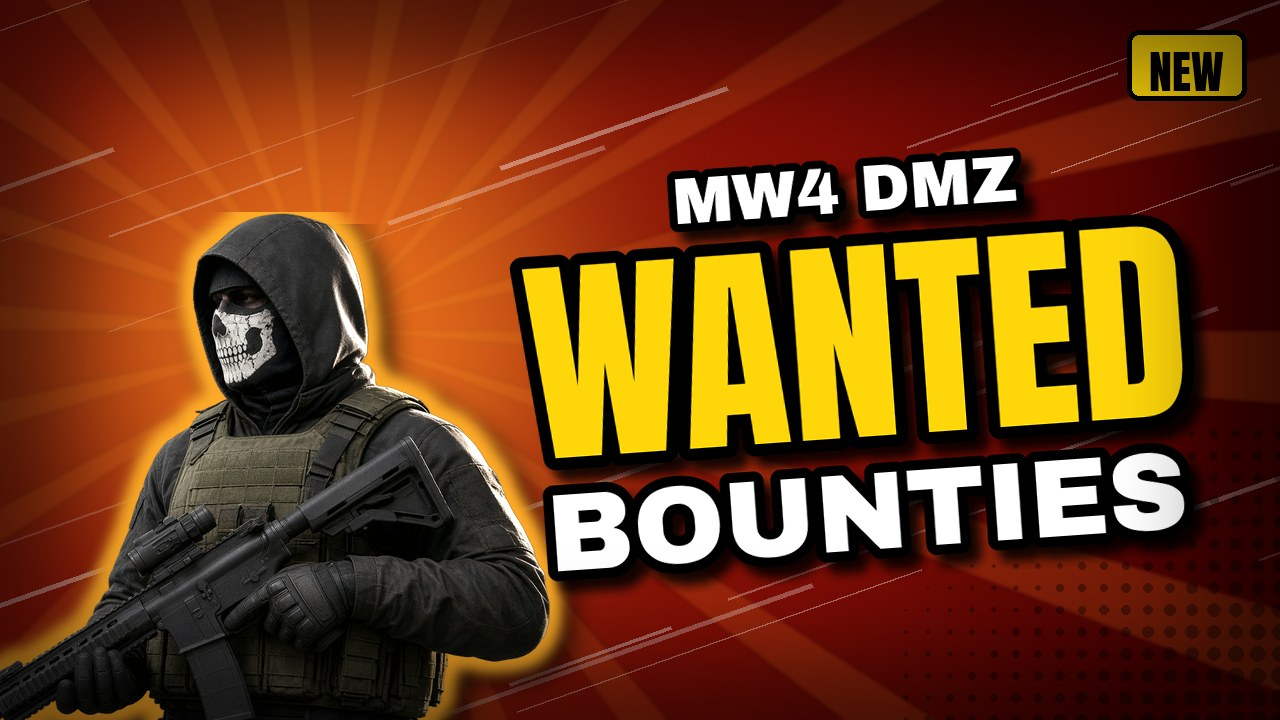
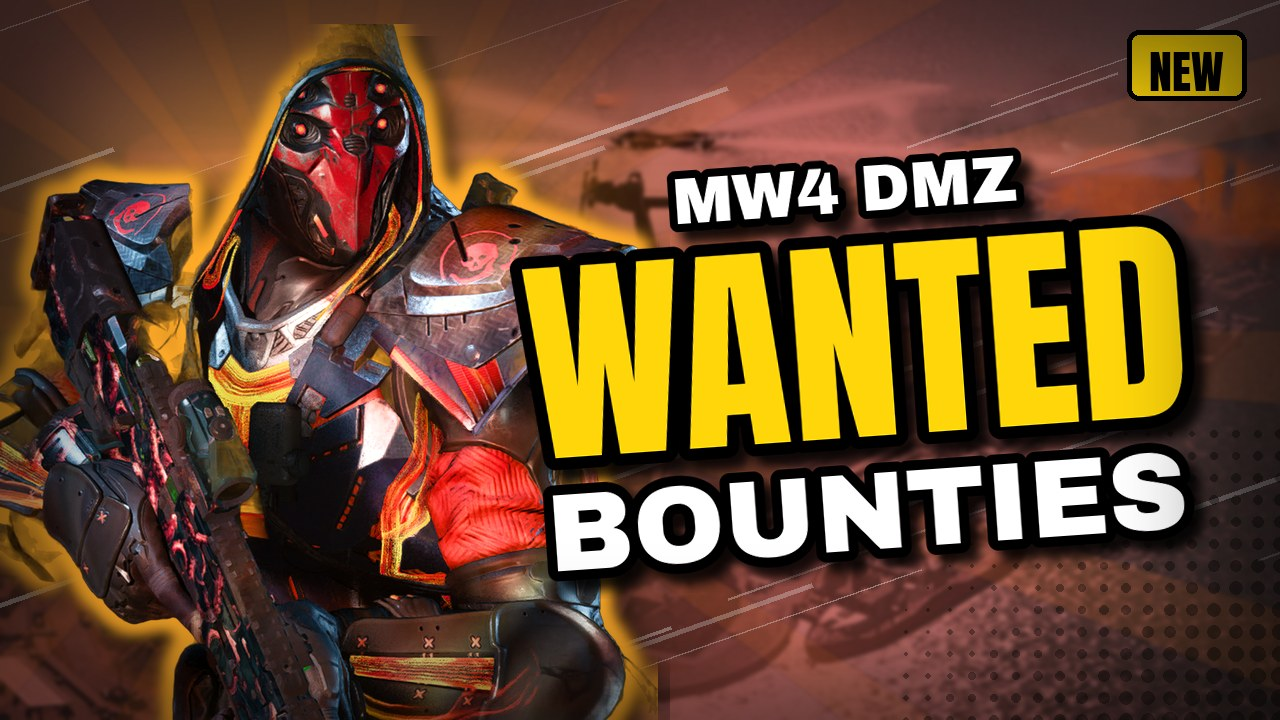
MW4/Warzone thumbnails: Rick's clean screenshots + operator cut-outs, rotation log

diff --git a/scripts/clean_mw4.py b/scripts/clean_mw4.py
@@ -1,0 +1,64 @@
+#!/usr/bin/env python3
+"""Clean Rick's MW4/Warzone screenshots (2560x1440) for thumbnails.
+Per shot: inpaint leftover HUD bits (full-res rects; 'sat' rects only mask coloured/bright text pixels),
+crop 16:9 away from all menus/HUD, save 1600x900 JPG q85 to media/screenshots/mw4-warzone/clean/mw4-NN.jpg.
+Raw PNGs (rick-mw4-NN.png) are gitignored. Usage: python3 scripts/clean_mw4.py"""
+import os, cv2, numpy as np
+ROOT = os.path.dirname(os.path.dirname(os.path.abspath(__file__)))
+D = os.path.join(ROOT, 'media/screenshots/mw4-warzone')
+LOBBY_FIX = [(690, 930, 800, 1075), (1785, 280, 1832, 335)]  # + party speaker icon          # tiny build/debug text left of the operator in lobby shots
+# out#: (raw#, (x0, y0, width), inpaint rects, sat-masked rects)
+SHOTS = {
+    1:  (2,  (740, 185, 1090), LOBBY_FIX, []),
+    2:  (4,  (740, 185, 1090), LOBBY_FIX, []),
+    3:  (5,  (740, 185, 1090), LOBBY_FIX, []),
+    4:  (7,  (740, 185, 1090), LOBBY_FIX, []),
+    5:  (9,  (740, 185, 1090), LOBBY_FIX, []),
+    6:  (11, (740, 185, 1090), LOBBY_FIX, []),
+    7:  (12, (740, 185, 1090), LOBBY_FIX, []),
+    8:  (13, (740, 185, 1090), LOBBY_FIX, []),
+    9:  (14, (740, 185, 1090), LOBBY_FIX, []),
+    10: (18, (740, 185, 1090), LOBBY_FIX, []),
+    11: (1,  (420, 0, 2133), [], []),
+    12: (15, (470, 215, 1380), [(1195, 210, 1355, 350)], []),
+    13: (16, (440, 330, 1600), [], []),
+    14: (19, (440, 330, 1600), [], []),
+    15: (21, (400, 170, 1760), [(1225, 488, 1330, 522)], []),
+    16: (20, (570, 325, 1387), [], [(890, 500, 1055, 565), (1020, 585, 1230, 630), (745, 635, 980, 715),
+                                    (1420, 685, 1605, 730), (1730, 565, 1895, 605), (1235, 395, 1380, 450),
+                                    (1600, 390, 1850, 425), (1520, 435, 1705, 475), (1730, 435, 1945, 505),
+                                    (1190, 640, 1385, 690)]),
+}
+# skipped raws: 03 (near-duplicate of 04), 06 (near-duplicate of 05), 08 (face sits under the top nav bar),
+# 10 (near-duplicate of 09), 17 (near-duplicate of 16), 22 (waypoint/revive/prompt overlays across the centre),
+# 23 (menu-covered, dark duplicate of 01)
+
+def rect_mask(mask, r):
+    cv2.rectangle(mask, (r[0], r[1]), (r[2], r[3]), 255, -1)
+
+def run(only=None):
+    os.makedirs(os.path.join(D, 'clean'), exist_ok=True)
+    for n, (raw, (x0, y0, cw), rects, sats) in SHOTS.items():
+        if only and n not in only: continue
+        src = os.path.join(D, f'rick-mw4-{raw:02d}.png')
+        if not os.path.exists(src): continue
+        im = cv2.imread(src); h, w = im.shape[:2]
+        mask = np.zeros((h, w), np.uint8)
+        for r in rects: rect_mask(mask, r)
+        if sats:
+            hsv = cv2.cvtColor(im, cv2.COLOR_BGR2HSV)
+            for x_0, y_0, x_1, y_1 in sats:
+                sub = hsv[y_0:y_1, x_0:x_1]
+                m = ((sub[..., 1] > 60) & (sub[..., 2] > 110)) | (sub[..., 2] > 200)
+                mask[y_0:y_1, x_0:x_1] |= (m.astype(np.uint8) * 255)
+        if mask.any():
+            mask = cv2.dilate(mask, np.ones((9, 9), np.uint8))
+            im = cv2.inpaint(im, mask, 11, cv2.INPAINT_TELEA)
+        ch = round(cw * 9 / 16)
+        crop = im[y0:y0 + ch, x0:x0 + cw]
+        crop = cv2.resize(crop, (1600, 900), interpolation=cv2.INTER_AREA if cw >= 1600 else cv2.INTER_LANCZOS4)
+        out = os.path.join(D, 'clean', f'mw4-{n:02d}.jpg')
+        cv2.imwrite(out, crop, [cv2.IMWRITE_JPEG_QUALITY, 85, cv2.IMWRITE_JPEG_OPTIMIZE, 1, cv2.IMWRITE_JPEG_PROGRESSIVE, 1])
+        print(out, f'(raw {raw:02d})', os.path.getsize(out) // 1024, 'KB')
+
+if __name__ == '__main__': run()

diff --git a/scripts/mw4_images.py b/scripts/mw4_images.py
@@ -1,0 +1,40 @@
+#!/usr/bin/env python3
+"""Rotation of Rick's MW4/Warzone thumbnail images (cut-outs + clean scenes), tracked in content/mw4-image-usage.json.
+  python3 scripts/mw4_images.py next            -> suggests the least-recently-used character + background pair
+                                                  (never the previous post's images, never a cut-out on its own source shot)
+  python3 scripts/mw4_images.py use <slug> <character.png> <bg.jpg>   -> records the pair (run after writing the post)
+  python3 scripts/mw4_images.py list            -> usage history"""
+import os, sys, json, glob
+ROOT = os.path.dirname(os.path.dirname(os.path.abspath(__file__)))
+LOG = os.path.join(ROOT, 'content/mw4-image-usage.json')
+CHARS = sorted(os.path.basename(p) for p in glob.glob(os.path.join(ROOT, 'media/characters/mw4-rick-*.png')))
+BGS = sorted(os.path.relpath(p, ROOT) for p in glob.glob(os.path.join(ROOT, 'media/screenshots/mw4-warzone/clean/mw4-*.jpg')))
+# cut-out -> the clean scene made from the same raw shot (don't pair them)
+SOURCE = {'mw4-rick-01.png': 'mw4-03.jpg', 'mw4-rick-02.png': 'mw4-04.jpg', 'mw4-rick-03.png': 'mw4-01.jpg',
+          'mw4-rick-04.png': 'mw4-07.jpg', 'mw4-rick-05.png': 'mw4-10.jpg', 'mw4-rick-06.png': 'mw4-05.jpg',
+          'mw4-rick-07.png': 'mw4-06.jpg', 'mw4-rick-08.png': 'mw4-09.jpg'}
+# in-match scenes (11-16) read best as full backgrounds behind a cut-out; lobby scenes (01-10) work as solo full-bleed bgs
+SCENES = [b for b in BGS if int(b[-6:-4]) >= 11]
+
+def load(): return json.load(open(LOG)) if os.path.exists(LOG) else []
+
+def lru(items, used):
+    last = {x: i for i, x in enumerate(used)}
+    return sorted(items, key=lambda x: last.get(x, -1))
+
+def main():
+    cmd = sys.argv[1] if len(sys.argv) > 1 else 'next'; log = load()
+    if cmd == 'use':
+        slug, ch, bg = sys.argv[2:5]
+        log = [e for e in log if e['slug'] != slug] + [{'slug': slug, 'character': ch, 'bg': bg}]
+        json.dump(log, open(LOG, 'w'), indent=1); print('recorded', slug)
+    elif cmd == 'list':
+        for e in log: print(e['slug'], e['character'], e['bg'])
+    else:
+        prev = log[-1] if log else {}
+        ch = next(c for c in lru(CHARS, [e['character'] for e in log]) if c != prev.get('character'))
+        bg = next(b for b in lru(SCENES, [e['bg'] for e in log])
+                  if b != prev.get('bg') and not b.endswith(SOURCE.get(ch, '-')))
+        print(f'character: {ch}\nbg: {bg}')
+
+if __name__ == '__main__': main()

diff --git a/scripts/cutout_mw4.py b/scripts/cutout_mw4.py
@@ -1,0 +1,40 @@
+#!/usr/bin/env python3
+"""Cut out operators from Rick's MW4/Warzone lobby screenshots -> media/characters/mw4-rick-0N.png
+(region between the lobby menus only, so no UI ends up in the cut-out). Usage: python3 scripts/cutout_mw4.py"""
+import os, cv2, numpy as np
+from PIL import Image
+from rembg import remove, new_session
+ROOT = os.path.dirname(os.path.dirname(os.path.abspath(__file__)))
+D = os.path.join(ROOT, 'media/screenshots/mw4-warzone')
+REGION = (730, 185, 1900, 1320)                       # x0, y0, x1, y1 in the 2560x1440 lobby shot
+FIX = [(690, 930, 800, 1075), (1785, 180, 1905, 345)]  # debug text, party panel/speaker icon corner
+CUTS = {1: 5, 2: 7, 3: 2, 4: 12, 5: 18, 6: 9, 7: 11, 8: 14}   # out N: raw shot
+
+def largest(alpha):
+    _, bw = cv2.threshold(alpha, 30, 255, cv2.THRESH_BINARY)
+    n, lab, st, _ = cv2.connectedComponentsWithStats(bw)
+    if n <= 1: return alpha
+    k = 1 + int(np.argmax(st[1:, cv2.CC_STAT_AREA])); keep = (lab == k).astype(np.uint8) * 255
+    # fill small enclosed holes only (components of the background that don't touch the border)
+    inv = cv2.bitwise_not(keep); h, w = keep.shape
+    n2, lab2, st2, _ = cv2.connectedComponentsWithStats(inv)
+    holes = np.zeros_like(keep)
+    for i in range(1, n2):
+        x, y, bw_, bh_, area = st2[i]
+        if x > 0 and y > 0 and x + bw_ < w and y + bh_ < h and area < 0.01 * h * w: holes[lab2 == i] = 255
+    return np.where(keep > 0, np.maximum(alpha, (holes > 0) * 255), 0).astype(np.uint8)
+
+if __name__ == '__main__':
+    s = new_session('isnet-general-use')
+    for n, raw in CUTS.items():
+        im = cv2.imread(os.path.join(D, f'rick-mw4-{raw:02d}.png'))
+        mask = np.zeros(im.shape[:2], np.uint8)
+        for r in FIX: cv2.rectangle(mask, r[:2], r[2:], 255, -1)
+        im = cv2.inpaint(im, mask, 9, cv2.INPAINT_TELEA)
+        x0, y0, x1, y1 = REGION
+        pil = Image.fromarray(cv2.cvtColor(im[y0:y1, x0:x1], cv2.COLOR_BGR2RGB))
+        out = remove(pil, session=s)
+        a = largest(np.array(out.split()[3])); out.putalpha(Image.fromarray(a))
+        out = out.crop(out.getbbox())
+        p = os.path.join(ROOT, 'media/characters', f'mw4-rick-{n:02d}.png'); out.save(p, optimize=True)
+        print(p, out.size, os.path.getsize(p) // 1024, 'KB')

diff --git a/RUNBOOK-news.md b/RUNBOOK-news.md
@@ -56,7 +56,7 @@ thumb: {style: v2, label: "GTA VI", lines: ["RADIO", "REVEALED"], key: 0, theme:
   - `neon` (pink/orange): good for GTA/Vice City.
   - `ice` (blue): good for ARC Frozen Trail and winter.
 - `character`: a transparent PNG in `media/characters/`. For ARC Raiders, use Rick's cutouts (see below). `side` is left or right; the text goes on the opposite side.
-  - Available: `mw4-skull-operator.png` (original hooded skull-balaclava operator, best for CoD/Warzone), `mw4-operator.png`, `arc-raider.png`, `gta6-convertible.png` (low resolution, avoid large use), `prop-boombox.png`.
+  - Available: `mw4-rick-01..08.png` (Rick's MW4/Warzone operators, **the only ones allowed for MW4/Warzone**, see below), `arc-raider.png`, `gta6-convertible.png` (low resolution, avoid large use), `prop-boombox.png`.
   - New characters must be ORIGINAL look-alikes (e.g. a hooded operator with a generic skull-print balaclava, an extraction raider, a weapon close-up). Never Ghost or any official character, and no logos.
   - Generate on a plain background (GenerateImage, done by the parent agent), then cut out:
     ```bash
@@ -71,6 +71,13 @@ thumb: {style: v2, label: "GTA VI", lines: ["RADIO", "REVEALED"], key: 0, theme:
   - **Rotate:** don't reuse the previous ARC post's character or background. Check what's been used with `rg -n "^thumb" content/articles/arc-*.md`, pick a different character/bg pair, and don't put a cutout on its own source screenshot (e.g. avoid rick-02 on arc-02).
   - Example: `thumb: {style: v2, label: "ARC RAIDERS", lines: ["HOTFIX", "IS LIVE"], key: 0, theme: ice, character: arc-raider-rick-02.png, side: right, bg: media/screenshots/arc-raiders/clean/arc-05.jpg, bg_mode: full, badge: "NEW"}`
   - New screenshots from Rick: put the raw PNGs at `media/screenshots/arc-raiders/rick-arc-NN.png` (they're gitignored). Add their crop and inpaint rectangles to `scripts/clean_shots.py` and run it. Visually confirm that no HUD remains, especially the player name, the ID string bottom-right, the compass and the prompts. Cut out with rembg (see 3), keeping only the largest component and filling holes.
+- **MW4/Warzone thumbnails MUST use Rick's own screenshots/cut-outs.** Never the old AI operators (`mw4-skull-operator.png`, `mw4-operator.png`) or `media/screenshots/mw4/placeholder-ai.jpg`, and never old-style thumbs for MW4.
+  - Operator cut-outs (`character:`): `media/characters/mw4-rick-01.png` … `-08.png`. 01–03: purple-haired operator (01 full body, 02 aiming, 03 upper body with rifle); 04–08: red-masked hooded ninja operator (04 aiming, 05 rifle across chest, 06 full body aiming, 07 side view, 08 close-up).
+  - Clean HUD-free scenes (`bg:` with `bg_mode: full`), 1600x900, in `media/screenshots/mw4-warzone/clean/`: 11 shooting range, 12 parachute over the island, 13 rooftop pre-deploy, 14 rooftop with red smoke, 15 interior corridor, 16 helicopter over the island. 01–10 are lobby close-ups of the operators (good as a solo full background with no cut-out; don't put a cut-out on top of its own source shot).
+  - **Rotate, and consecutive posts must never repeat an image.** Run `python3 scripts/mw4_images.py next`: it suggests the least-recently-used character + scene, never the previous post's, never a cut-out on its own source shot. After writing the post, record it with `python3 scripts/mw4_images.py use <slug> <character.png> <bg path>`. The log is `content/mw4-image-usage.json` (committed).
+  - Example: `thumb: {style: v2, label: "WARZONE", lines: ["NEW", "MAP"], key: 1, theme: fire, character: mw4-rick-03.png, side: right, bg: media/screenshots/mw4-warzone/clean/mw4-14.jpg, bg_mode: full, badge: "NEW"}`
+  - `label` is plain text only (WARZONE, MW4, MW4 DMZ). Never the official logo, lettering or the in-game MW4 banner.
+  - New screenshots from Rick: put raw PNGs at `media/screenshots/mw4-warzone/rick-mw4-NN.png` (gitignored). Add a crop box and inpaint rects to `scripts/clean_mw4.py` and run it; for cut-outs add the shot to `CUTS` in `scripts/cutout_mw4.py`, then add the new files to `SOURCE` in `scripts/mw4_images.py`. Visually confirm that no UI remains: WARZONE logo, nav bar, MW4 "RESERVAR" banner, left panels, party list/speaker icon, minimap, compass, countdown, prompts, ammo widget, and **every gamertag**.
 - Old-style thumbnails (`line1/line2/accent`) still work.
 - Preview: `python3 scripts/build.py`, then view `media/thumbs/<slug>.jpg`. Check that the text is readable and nothing is cut off.
 

diff --git a/content/articles/mw4-dmz-bounties-wanted-explained.md b/content/articles/mw4-dmz-bounties-wanted-explained.md
@@ -6,7 +6,7 @@ category: news
 featured: true
 date: 2026-10-09
 description: "Kill rival Operators in Modern Warfare 4's DMZ and you can become Wanted. Here's what Infinity Ward has shown of Bounties, Bounty Stations and leaderboards before the Oct 23 launch."
-thumb: {style: v2, label: "MW4 DMZ", lines: ["WANTED", "BOUNTIES"], key: 0, theme: fire, character: mw4-skull-operator.png, side: left, badge: "NEW"}
+thumb: {style: v2, label: "MW4 DMZ", lines: ["WANTED", "BOUNTIES"], key: 0, theme: fire, character: mw4-rick-08.png, side: left, bg: media/screenshots/mw4-warzone/clean/mw4-16.jpg, bg_mode: full, badge: "NEW"}
 sources:
   - {name: "Call of Duty Blog — DMZ Deep Dive, Part 1: Tour of Duty – Hajin (Oct 5, 2026)", url: "https://www.callofduty.com/blog/2026/10/call-of-duty-modern-warfare-4-dmz-deep-dive-hajin"}
   - {name: "IGN — Call of Duty: Modern Warfare 4 Official DMZ Bounty Systems Trailer (Oct 8, 2026)", url: "https://za.ign.com/call-of-duty-modern-warfare-4/242937/call-of-duty-modern-warfare-4-official-dmz-bounty-systems-trailer"}

diff --git a/content/articles/mw4-dmz-early-access-october-20.md b/content/articles/mw4-dmz-early-access-october-20.md
@@ -5,7 +5,7 @@ game: mw4
 category: news
 date: 2026-10-10
 description: "Infinity Ward confirms Modern Warfare 4's DMZ Early Access opens Tuesday, October 20 for digital pre-orders, three days before the Oct 23 launch."
-thumb: {style: v2, label: "MW4", lines: ["DMZ", "3 DAYS EARLY"], key: 0, theme: volt, character: mw4-operator.png, side: right, badge: "OCT 20"}
+thumb: {style: v2, label: "MW4", lines: ["DMZ", "3 DAYS EARLY"], key: 0, theme: volt, character: mw4-rick-01.png, side: right, bg: media/screenshots/mw4-warzone/clean/mw4-12.jpg, bg_mode: full, badge: "OCT 20"}
 sources:
   - {name: "Call of Duty Staff — DMZ Deep Dive, Part 2: FOB Intel Guide (Oct 9, 2026)", url: "https://news.blizzard.com/en-us/article/24306097/dmz-deep-dive-part-2-fob-intel-guide"}
   - {name: "Dexerto — Modern Warfare 4 DMZ Early Access announced (Oct 9, 2026)", url: "https://www.dexerto.com/call-of-duty/modern-warfare-4-dmz-early-access-announced-how-to-play-early-3417431/"}

diff --git a/content/articles/mw4-pc-preload-october-15-specs.md b/content/articles/mw4-pc-preload-october-15-specs.md
@@ -5,7 +5,7 @@ game: mw4
 category: news
 date: 2026-10-11
 description: "Modern Warfare 4 PC preload opens Oct 15 at 9 AM PT for digital pre-purchases. Here are the times, the 115GB SSD rule, TPM 2.0 and the full spec list."
-thumb: {style: v2, label: "MW4", lines: ["PRELOAD", "OCT 15"], key: 0, theme: fire, character: mw4-skull-operator.png, side: right, badge: "PC"}
+thumb: {style: v2, label: "MW4", lines: ["PRELOAD", "OCT 15"], key: 0, theme: fire, character: mw4-rick-05.png, side: right, bg: media/screenshots/mw4-warzone/clean/mw4-13.jpg, bg_mode: full, badge: "PC"}
 sources:
   - {name: "Activision Support — PC System Requirements for Call of Duty: Modern Warfare 4", url: "https://support.activision.com/modern-warfare-4/articles/pc-system-requirements-for-modern-warfare-4"}
   - {name: "Activision Support — Call of Duty: Modern Warfare 4 Editions", url: "https://support.activision.com/modern-warfare-4/articles/modern-warfare-4-editions"}

diff --git a/content/articles/mw4-campaign-early-access.md b/content/articles/mw4-campaign-early-access.md
@@ -6,7 +6,7 @@ category: guide
 featured: true
 date: 2026-10-07
 description: "Modern Warfare 4's Campaign Early Access starts Friday, October 16, 2026 for digital pre-orders on every platform, a week before the October 23 launch."
-thumb: {line1: "Early", line2: "Advantage", accent: green, badge: "Oct 16"}
+thumb: {style: v2, label: "MW4", lines: ["EARLY", "ACCESS"], key: 0, theme: fire, character: mw4-rick-02.png, side: right, bg: media/screenshots/mw4-warzone/clean/mw4-15.jpg, bg_mode: full, badge: "OCT 16"}
 sources:
   - {name: "Call of Duty Blog — Modern Warfare 4: Campaign Early Access Confirmed (June 12, 2026)", url: "https://www.callofduty.com/blog/2026/06/call-of-duty-modern-warfare-4-campaign-early-access"}
   - {name: "Activision Support — Call of Duty: Modern Warfare 4 Editions", url: "https://support.activision.com/modern-warfare-4/articles/modern-warfare-4-editions"}

diff --git a/content/articles/mw4-multiplayer-whats-new.md b/content/articles/mw4-multiplayer-whats-new.md
@@ -5,7 +5,7 @@ game: mw4
 category: news
 date: 2026-10-07
 description: "Everything Infinity Ward has confirmed for Modern Warfare 4 multiplayer: no bloom, new movement, 12 core maps, Kill Block, Gunny, Apex Attachments and two Prestige paths."
-thumb: {line1: "MW4", line2: "No Bloom", accent: yellow, badge: "Oct 23"}
+thumb: {style: v2, label: "MW4", lines: ["NO", "BLOOM"], key: 1, theme: volt, character: mw4-rick-04.png, side: left, bg: media/screenshots/mw4-warzone/clean/mw4-11.jpg, bg_mode: full, badge: "OCT 23"}
 sources:
   - {name: "Call of Duty Blog — Announcing Call of Duty: Modern Warfare 4 (May 28, 2026)", url: "https://www.callofduty.com/blog/2026/05/call-of-duty-modern-warfare-4-announcement"}
   - {name: "Call of Duty: Modern Warfare 4 official site", url: "https://www.callofduty.com/modernwarfare4"}
